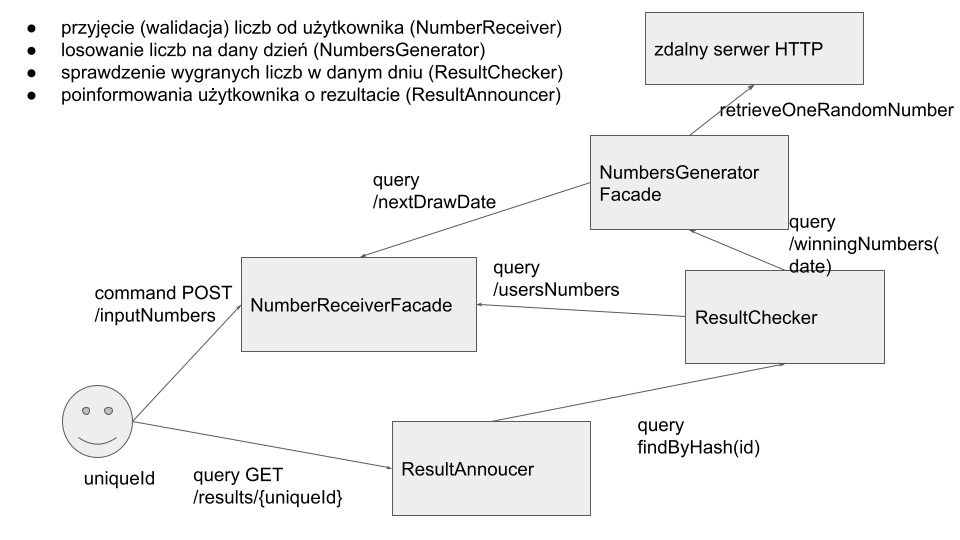
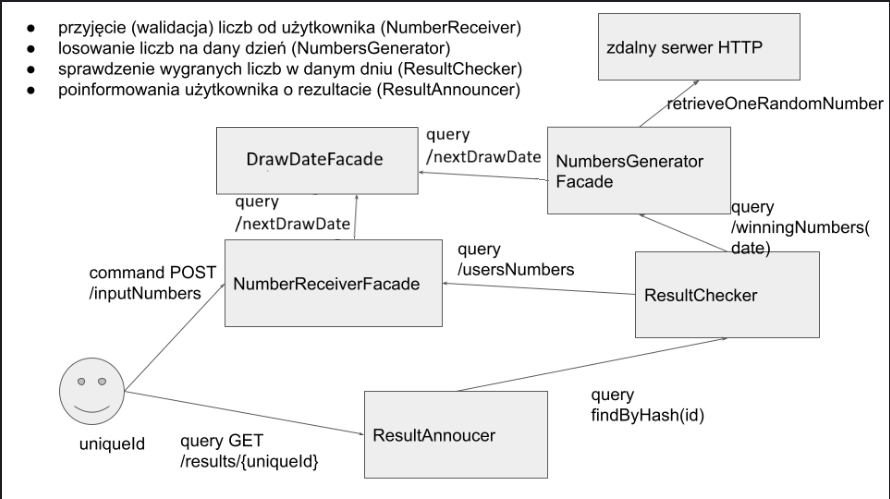
Refactored winning numbers generator, number receiver facade based on change in architecture

diff --git a/src/test/java/pl/lotto/domain/numbergenerator/WinningNumbersGeneratorFacadeTest.java b/src/test/java/pl/lotto/domain/numbergenerator/WinningNumbersGeneratorFacadeTest.java
@@ -1,6 +1,7 @@
 package pl.lotto.domain.numbergenerator;
 
 import org.junit.jupiter.api.Test;
+import pl.lotto.domain.drawdategenerator.DrawDateFacade;
 import pl.lotto.domain.numbergenerator.dto.WinningNumbersDto;
 import pl.lotto.domain.numberreceiver.NumberReceiverFacade;
 import java.time.LocalDateTime;
@@ -14,17 +15,16 @@ import static org.mockito.Mockito.when;
 
 public class WinningNumbersGeneratorFacadeTest {
     private final WinningNumbersRepository winningNumbersRepository = new WinningNumbersRepositoryTestImpl();
-    NumberReceiverFacade numberReceiverFacade = mock(NumberReceiverFacade.class);
-
+    DrawDateFacade drawDateFacade = mock(DrawDateFacade.class);
     WinningNumbersGeneratorFacade winningNumbersGeneratorFacade = new WInningNumbersGeneratorConfiguration().createForTests(
             new WinningNumbersGeneratorTestImpl(),
             winningNumbersRepository,
-            numberReceiverFacade
+            drawDateFacade
     );
     @Test
     public void should_return_six_numbers() {
         //given
-        when(numberReceiverFacade.retrieveNextDrawDate()).thenReturn(LocalDateTime.now());
+        when(drawDateFacade.getNextDrawDate()).thenReturn(LocalDateTime.now());
         //when
         WinningNumbersDto generatedNumbers = winningNumbersGeneratorFacade.generateWinningNumbers();
         //then
@@ -33,7 +33,7 @@ public class WinningNumbersGeneratorFacadeTest {
     @Test
     public void should_return_all_numbers_in_range() {
         //given
-        when(numberReceiverFacade.retrieveNextDrawDate()).thenReturn(LocalDateTime.now());
+        when(drawDateFacade.getNextDrawDate()).thenReturn(LocalDateTime.now());
         //when
         WinningNumbersDto generatedNumbers = winningNumbersGeneratorFacade.generateWinningNumbers();
         //then
@@ -49,8 +49,8 @@ public class WinningNumbersGeneratorFacadeTest {
         WinningNumbersGeneratorFacade winningNumbersGeneratorFacade = new WInningNumbersGeneratorConfiguration().createForTests(
                 new WinningNumbersGeneratorTestImpl(numbersOutOfRange),
                 winningNumbersRepository,
-                numberReceiverFacade);
-        when(numberReceiverFacade.retrieveNextDrawDate()).thenReturn(LocalDateTime.now());
+                drawDateFacade);
+        when(drawDateFacade.getNextDrawDate()).thenReturn(LocalDateTime.now());
         //when
         //then
         assertThrows(IllegalStateException.class ,winningNumbersGeneratorFacade::generateWinningNumbers, "Number out of range!");
@@ -58,7 +58,7 @@ public class WinningNumbersGeneratorFacadeTest {
     @Test
     public void should_return_collection_of_unique_values() {
         //given
-        when(numberReceiverFacade.retrieveNextDrawDate()).thenReturn(LocalDateTime.now());
+        when(drawDateFacade.getNextDrawDate()).thenReturn(LocalDateTime.now());
         //when
         WinningNumbersDto generatedNumbers = winningNumbersGeneratorFacade.generateWinningNumbers();
         //then
@@ -77,11 +77,11 @@ public class WinningNumbersGeneratorFacadeTest {
                 .winningNumbers(generatedWinningNumbers)
                 .build();
         winningNumbersRepository.save(winningNumbers);
-        when(numberReceiverFacade.retrieveNextDrawDate()).thenReturn(drawDate);
+        when(drawDateFacade.getNextDrawDate()).thenReturn(drawDate);
         WinningNumbersGeneratorFacade winningNumbersGeneratorFacade = new WInningNumbersGeneratorConfiguration().createForTests(
                 new WinningNumbersGeneratorTestImpl(Set.of(1,2,3,4,5,6)),
                 winningNumbersRepository,
-                numberReceiverFacade);
+                drawDateFacade);
         //when
         WinningNumbersDto winningNumbersDto = winningNumbersGeneratorFacade.retrieveWinningNumbersByDate(drawDate);
         //then
@@ -95,11 +95,11 @@ public class WinningNumbersGeneratorFacadeTest {
     public void should_throw_an_exception_when_fail_to_retrieve_numbers_by_given_date() {
         //given
         LocalDateTime drawDate = LocalDateTime.of(2023, 11, 11, 12, 0, 0);
-        when(numberReceiverFacade.retrieveNextDrawDate()).thenReturn(drawDate);
+        when(drawDateFacade.getNextDrawDate()).thenReturn(drawDate);
         WinningNumbersGeneratorFacade winningNumbersGeneratorFacade = new WInningNumbersGeneratorConfiguration().createForTests(
                 new WinningNumbersGeneratorTestImpl(),
                 winningNumbersRepository,
-                numberReceiverFacade);
+                drawDateFacade);
         //when
         //then
         assertThrows(WinningNumbersNotFoundException.class, () -> winningNumbersGeneratorFacade.retrieveWinningNumbersByDate(drawDate), "Not Found");
@@ -116,11 +116,11 @@ public class WinningNumbersGeneratorFacadeTest {
                 .winningNumbers(generatedWinningNumbers)
                 .build();
         winningNumbersRepository.save(winningNumbers);
-        when(numberReceiverFacade.retrieveNextDrawDate()).thenReturn(drawDate);
+        when(drawDateFacade.getNextDrawDate()).thenReturn(drawDate);
         WinningNumbersGeneratorFacade winningNumbersGeneratorFacade = new WInningNumbersGeneratorConfiguration().createForTests(
                 new WinningNumbersGeneratorTestImpl(),
                 winningNumbersRepository,
-                numberReceiverFacade);
+                drawDateFacade);
         //when
         boolean areWinningNumbersGeneratedByDate = winningNumbersGeneratorFacade.areWinningNumbersGeneratedByDate();
         //then

diff --git a/src/main/java/pl/lotto/domain/numbergenerator/WInningNumbersGeneratorConfiguration.java b/src/main/java/pl/lotto/domain/numbergenerator/WInningNumbersGeneratorConfiguration.java
@@ -2,6 +2,7 @@ package pl.lotto.domain.numbergenerator;
 
 import org.springframework.context.annotation.Bean;
 import org.springframework.context.annotation.Configuration;
+import pl.lotto.domain.drawdategenerator.DrawDateFacade;
 import pl.lotto.domain.numberreceiver.NumberReceiverFacade;
 
 import java.time.LocalDateTime;
@@ -11,17 +12,17 @@ import java.util.Optional;
 public class WInningNumbersGeneratorConfiguration {
 
     @Bean
-    WinningNumbersGeneratorFacade winningNumbersGeneratorFacade(RandomNumbersGenerable randomNumbersGenerable, NumberReceiverFacade numberReceiverFacade, WinningNumbersRepository repository, WinningNumberGeneratorFacadeConfigurationProperties properties) {
+    WinningNumbersGeneratorFacade winningNumbersGeneratorFacade(RandomNumbersGenerable randomNumbersGenerable, DrawDateFacade drawDateFacade, WinningNumbersRepository repository, WinningNumberGeneratorFacadeConfigurationProperties properties) {
         WinningNumbersValidator validator = new WinningNumbersValidator();
-        return new WinningNumbersGeneratorFacade(randomNumbersGenerable, validator, numberReceiverFacade, repository, properties);
+        return new WinningNumbersGeneratorFacade(randomNumbersGenerable, validator, drawDateFacade, repository, properties);
     }
 
-    WinningNumbersGeneratorFacade createForTests(RandomNumbersGenerable generator, WinningNumbersRepository repository, NumberReceiverFacade numberReceiverFacade) {
+    WinningNumbersGeneratorFacade createForTests(RandomNumbersGenerable generator, WinningNumbersRepository repository, DrawDateFacade drawDateFacade) {
         WinningNumberGeneratorFacadeConfigurationProperties properties = WinningNumberGeneratorFacadeConfigurationProperties.builder()
                 .minBound(1)
                 .maxBound(99)
                 .count(6)
                 .build();
-        return winningNumbersGeneratorFacade(generator, numberReceiverFacade, repository, properties);
+        return winningNumbersGeneratorFacade(generator, drawDateFacade, repository, properties);
     }
 }

diff --git a/src/main/java/pl/lotto/domain/numbergenerator/WinningNumbersGeneratorFacade.java b/src/main/java/pl/lotto/domain/numbergenerator/WinningNumbersGeneratorFacade.java
@@ -1,5 +1,6 @@
 package pl.lotto.domain.numbergenerator;
 import lombok.AllArgsConstructor;
+import pl.lotto.domain.drawdategenerator.DrawDateFacade;
 import pl.lotto.domain.numbergenerator.dto.SixRandomNumbersDto;
 import pl.lotto.domain.numbergenerator.dto.WinningNumbersDto;
 import pl.lotto.domain.numberreceiver.NumberReceiverFacade;
@@ -10,11 +11,11 @@ import java.util.Set;
 public class WinningNumbersGeneratorFacade {
     private RandomNumbersGenerable randomNumbersGenerator;
     private WinningNumbersValidator validator;
-    private NumberReceiverFacade numberReceiverFacade;
+    private DrawDateFacade drawDateFacade;
     private WinningNumbersRepository winningNumbersRepository;
     private WinningNumberGeneratorFacadeConfigurationProperties properties;
     public WinningNumbersDto generateWinningNumbers() {
-        LocalDateTime drawDate = numberReceiverFacade.retrieveNextDrawDate();
+        LocalDateTime drawDate = drawDateFacade.getNextDrawDate();
         SixRandomNumbersDto sixRandomNumbersDto = randomNumbersGenerator.generateSixRandomNumbers(properties.minBound(), properties.maxBound(), properties.count());
         Set<Integer> winningNumbers = sixRandomNumbersDto.numbers();
         validator.validate(winningNumbers);
@@ -39,7 +40,7 @@ public class WinningNumbersGeneratorFacade {
     }
 
     public boolean areWinningNumbersGeneratedByDate() {
-        LocalDateTime drawDate = numberReceiverFacade.retrieveNextDrawDate();
+        LocalDateTime drawDate = drawDateFacade.getNextDrawDate();
         return winningNumbersRepository.existsByDrawDate(drawDate);
     }
 }

diff --git a/src/main/java/pl/lotto/domain/numberreceiver/NumberReceiverFacade.java b/src/main/java/pl/lotto/domain/numberreceiver/NumberReceiverFacade.java
@@ -48,8 +48,4 @@ public class NumberReceiverFacade {
         LocalDateTime nextDrawDate = drawDateFacade.getNextDrawDate();
         return retrieveAllTicketsByNextDrawDate(nextDrawDate);
     }
-
-    public LocalDateTime retrieveNextDrawDate() {
-        return drawDateFacade.getNextDrawDate();
-    }
 }

diff --git a/src/main/java/pl/lotto/domain/drawdategenerator/DrawDateGenerable.java b/src/main/java/pl/lotto/domain/drawdategenerator/DrawDateGenerable.java
@@ -3,6 +3,5 @@ package pl.lotto.domain.drawdategenerator;
 import java.time.LocalDateTime;
 
 public interface DrawDateGenerable {
-
     LocalDateTime getNextDrawDate();
 }
